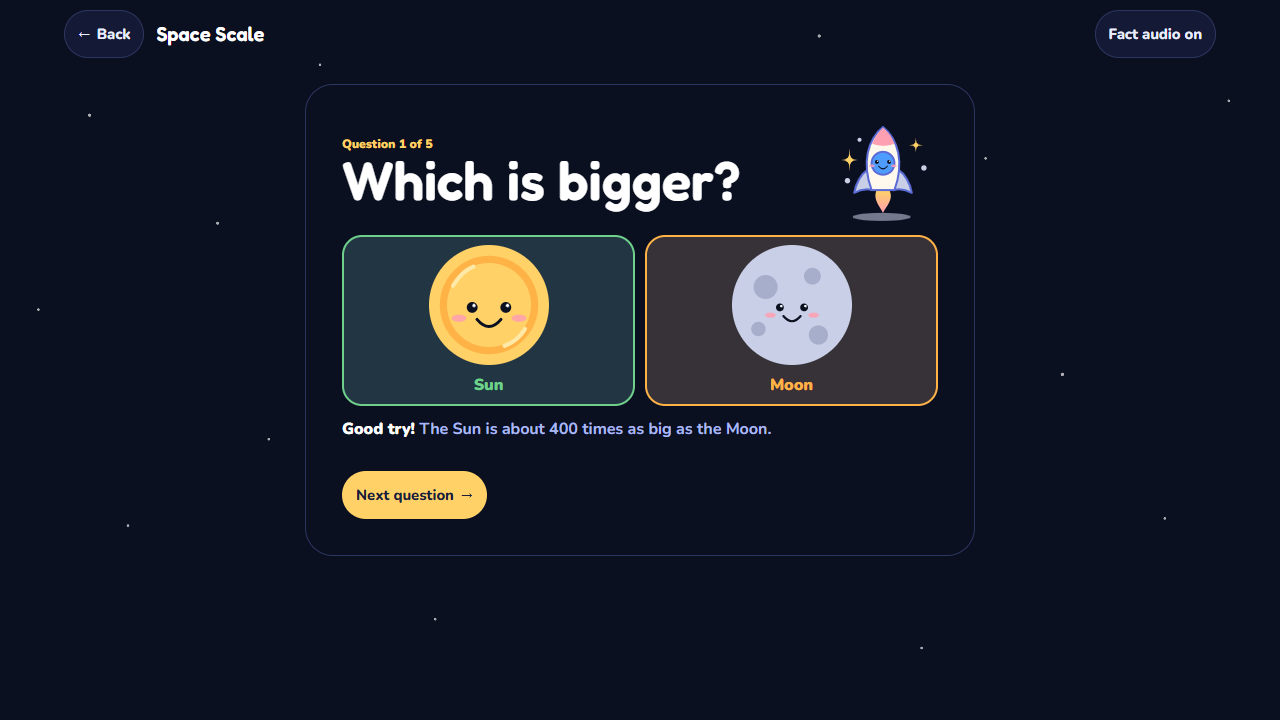
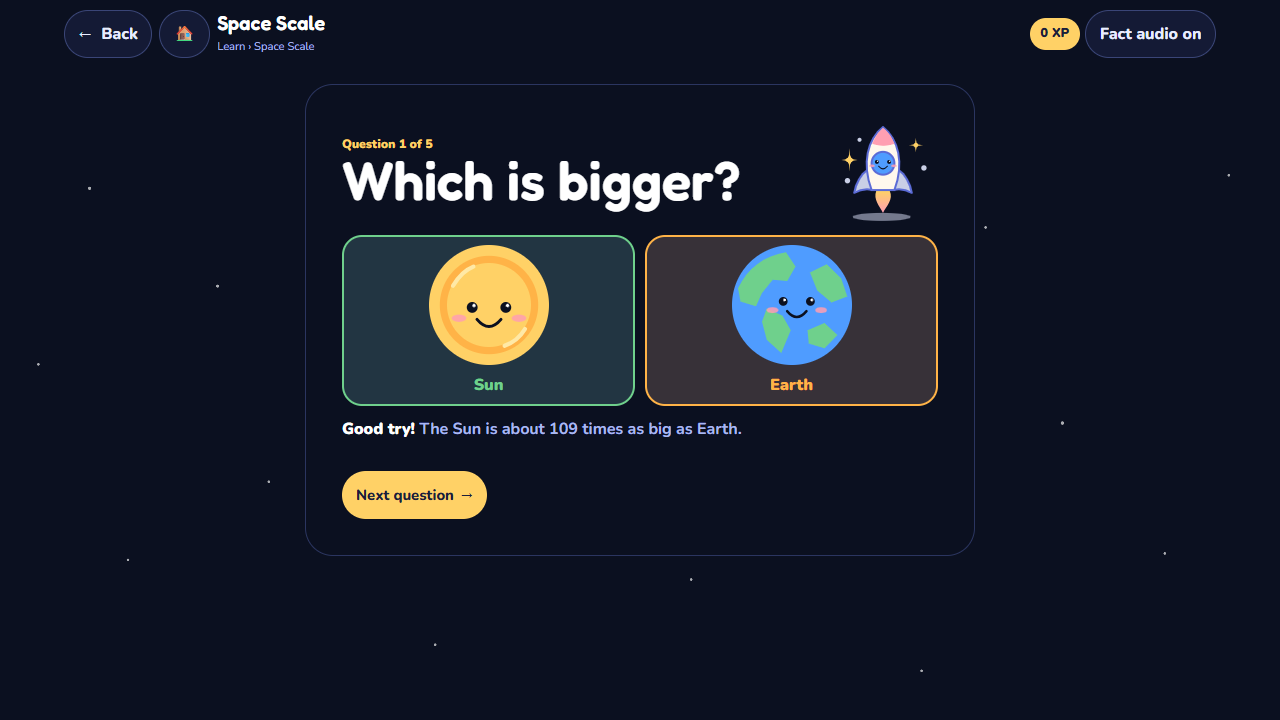
Match the shared header to the night sky

diff --git a/src/games/space/space.css b/src/games/space/space.css
@@ -49,7 +49,7 @@
 
 .sp-game {
   width: 100%;
-  min-height: 100svh;
+  min-height: calc(100svh - var(--sp-header-size, 0px));
   padding: 0 max(16px, calc((100% - 1152px) / 2));
   background-image: var(--sp-stars);
   color: var(--sp-ink);
@@ -57,12 +57,6 @@
   font: 700 1rem/1.4 var(--font-body, Nunito, system-ui, sans-serif);
 }
 .sp-game *, .sp-game *::before, .sp-game *::after { box-sizing: border-box; }
-.sp-host-controls {
-  position: absolute;
-  top: 10px;
-  right: max(16px, calc((100% - 1152px) / 2));
-  z-index: 2;
-}
 .sp-game h1, .sp-game h2, .sp-game p { margin: 0; }
 .sp-game h1, .sp-game h2, .sp-title {
   font-family: var(--font-heading, ui-rounded, "Trebuchet MS", system-ui, sans-serif);
@@ -86,7 +80,6 @@
   align-items: center;
   gap: 12px;
   min-height: 68px;
-  padding-right: 145px;
 }
 .sp-topbar > button { justify-self: start; }
 .sp-title { font-size: 20px; }
@@ -144,7 +137,7 @@
 .sp-hero-rocket svg, .sp-quiz-rocket svg { display: block; width: 100%; }
 
 .sp-journey {
-  height: max(640px, calc(100svh - 68px));
+  height: max(560px, calc(100svh - var(--sp-header-size, 68px)));
   max-height: 940px;
 }
 
@@ -367,12 +360,11 @@
 
 @media (max-width: 580px) {
   .sp-game { padding-inline: 12px; }
-  .sp-topbar { min-height: 60px; gap: 9px; padding-right: 126px; }
+  .sp-topbar { min-height: 60px; gap: 9px; }
   .sp-title { white-space: nowrap; }
-  .sp-host-controls { top: 6px; right: 12px; }
   .sp-intro { grid-template-columns: 1fr; min-height: 0; padding: 24px; }
   .sp-hero { width: min(86%, 300px); }
-  .sp-journey { height: max(575px, calc(100svh - 60px)); }
+  .sp-journey { height: max(540px, calc(100svh - var(--sp-header-size, 60px))); }
   .sp-stop-buttons { display: none; }
   .sp-stop-picker { display: block; }
   .sp-chevron { width: 48px; height: 48px; }

diff --git a/src/screens/Space.css b/src/screens/Space.css
@@ -1,2 +1,48 @@
-.sp-host { position: relative; min-height: 100svh; background: #0b1020; }
-.sp-host-pending { color: #fff; padding: 24px; }
+.sp-host {
+  --sp-header-size: 68px;
+  min-height: 100svh;
+  color: var(--sp-ink, #fff);
+  background: var(--sp-page, #0b1020);
+}
+
+.sp-host-pending { padding: 24px; }
+
+.sp-host .flow-module-header {
+  width: min(calc(100% - 32px), 1152px);
+}
+
+.sp-host .activity-header {
+  min-height: var(--sp-header-size);
+  border-bottom: 0;
+}
+
+.sp-host .activity-header-title { font-size: 20px; }
+.sp-host .flow-header-location { text-align: left; }
+.sp-host .flow-breadcrumb { color: var(--sp-muted, #a9b8f0); }
+
+.sp-host .quiet-button {
+  min-width: 48px;
+  border-color: var(--sp-line-strong, #3a4577);
+  border-radius: 999px;
+  color: var(--sp-icon, #e8edff);
+  background: var(--sp-paper, #141a35);
+}
+
+.sp-host .quiet-button:hover {
+  border-color: var(--sp-accent, #ffd166);
+  background: var(--sp-lavender, #222b52);
+}
+
+.sp-host .xp-chip {
+  color: var(--sp-accent-ink, #1b1f3b);
+  background: var(--sp-accent, #ffd166);
+}
+
+.sp-host .quiet-button:focus-visible { outline-color: var(--sp-accent, #ffd166); }
+
+@media (max-width: 600px) {
+  .sp-host { --sp-header-size: 95px; }
+  .sp-host .flow-module-header { width: calc(100% - 24px); }
+  .sp-host .activity-header { gap: 5px; }
+  .sp-host .flow-header-location { padding: 0 0 5px; text-align: center; }
+}

diff --git a/src/games/space/README.md b/src/games/space/README.md
@@ -27,7 +27,7 @@ In desktop Chrome, a scripted fast scroll across all stops produced a 16.7 ms me
 
 ## Measurements and sources
 
-The `diameterKm` field is the length compared by the game. It means height for the child and mountain, body length for the whale, and diameter for the celestial objects. Labels round the measurements for reading. The camera interpolates the logarithm of length between stops. During a transition, the incoming object fades and grows into view. At rest, the prior object shares the camera scale and uses a 2 px minimum marker.
+The `diameterKm` field is the length compared by the game. It means height for the child and mountain, body length for the whale, and diameter for the celestial objects. Labels round the measurements for reading. The camera interpolates the logarithm of length between stops. Objects share a baseline and a scale, with an 11 px minimum for readability. The Sun beside Betelgeuse is depicted as a glowing 4 px marker.
 
 | Object | Stored size | Source |
 | --- | ---: | --- |
